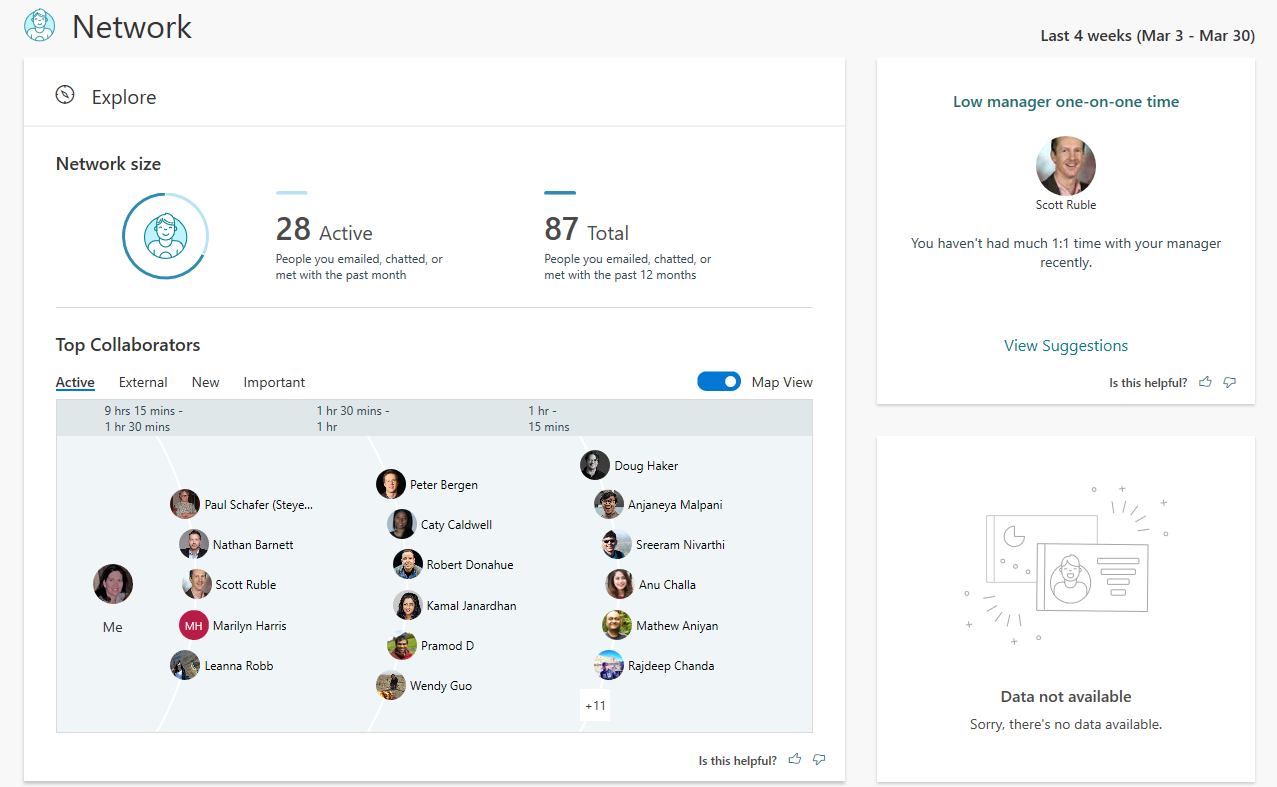
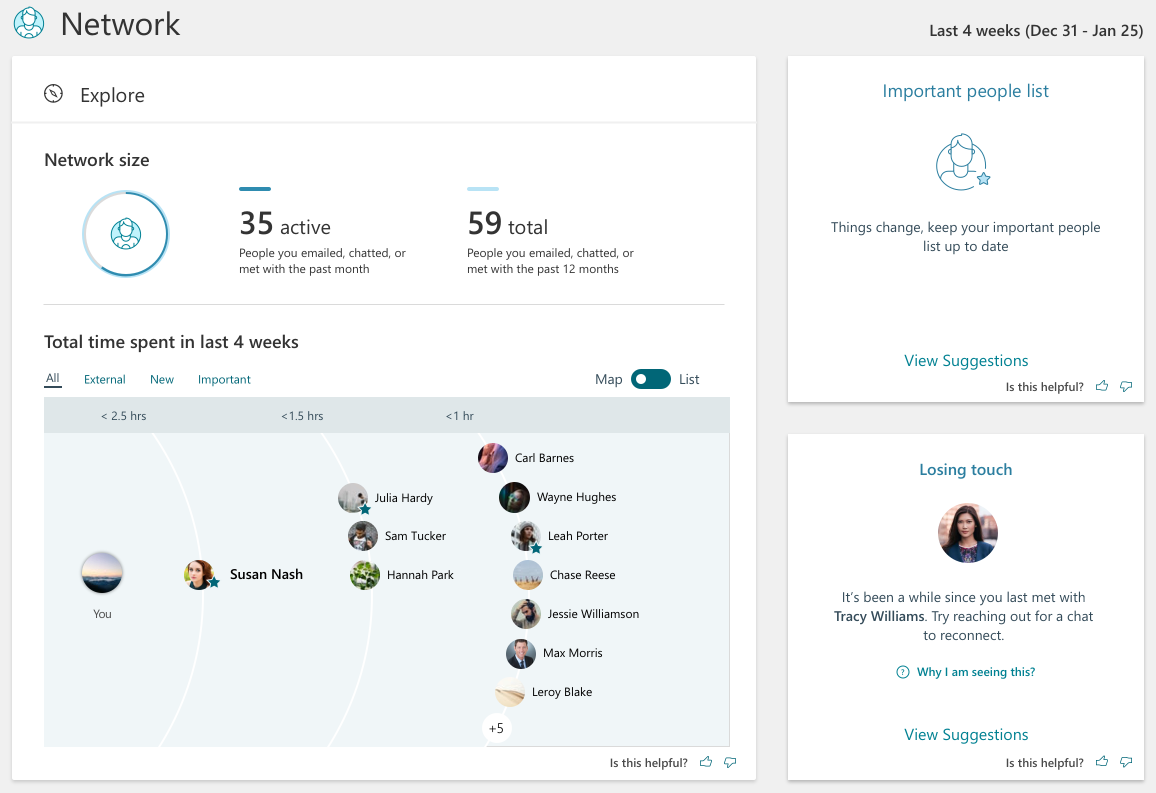
Edits for MyA v2
for docs

diff --git a/WorkplaceAnalytics/MyAnalytics/Overview/mya-service-description.md b/WorkplaceAnalytics/MyAnalytics/Overview/mya-service-description.md
@@ -4,9 +4,9 @@
 
 title: MyAnalytics service description
 description: MyAnalytics -- features, distributions, privacy, and prerequisites
-author: paul9955
-ms.author: v-pascha
-ms.date: 03/08/2019
+author: madehmer
+ms.author: v-midehm
+ms.date: 04/02/2019
 ms.topic: get-started-article
 localization_priority: normal 
 ms.prod: mya
@@ -19,20 +19,20 @@ MyAnalytics summarizes how you spend your time at work and then suggests ways to
 
 Some of the elements of MyAnalytics are provided automatically to users of various Office 365 plans. For more information, see [MyAnalytics distributions](#myanalytics-distributions).  
 
-MyAnalytics processes information in a manner that protects employee privacy. For more information, see [Data privacy](#data-privacy). 
+MyAnalytics processes information in a manner that protects employee privacy. For more information, see [Data privacy](#data-privacy).
 
 ## Elements
 
 MyAnalytics consists of the following elements:
 
- * [MyAnalytics personal dashboard](https://docs.microsoft.com/en-us/workplace-analytics/myanalytics/use/dashboard): Helps you reflect on your work habits such as time that you have available to focus, your meeting and email practices, and your network. 
+ * [MyAnalytics personal dashboard](https://docs.microsoft.com/en-us/workplace-analytics/myanalytics/use/dashboard): Helps you reflect on your work habits such as time that you have available to focus, your meeting and email practices, and your network.
  * [Outlook add-in](https://docs.microsoft.com/en-us/workplace-analytics/myanalytics/use/add-in): Provides you with actionable insights in Outlook that help you stay on top of your tasks and get more done.
- * [Email digest](https://docs.microsoft.com/en-us/workplace-analytics/myanalytics/use/email-digest): Gives you key highlights about your previous week. 
- * [MyAnalytics nudges](https://docs.microsoft.com/en-us/workplace-analytics/myanalytics/use/mya-notifications): These brief, data- and AI-driven notifications appear in Outlook while you are either reading or composing an email or a meeting invitation. 
+ * [Email digest](https://docs.microsoft.com/en-us/workplace-analytics/myanalytics/use/email-digest): Gives you key highlights about your previous week.
+ * [MyAnalytics nudges](https://docs.microsoft.com/en-us/workplace-analytics/myanalytics/use/mya-notifications): These brief, data- and AI-driven notifications appear in Outlook while you are either reading or composing an email or a meeting invitation.
 
 ## MyAnalytics distributions
 
-The elements of MyAnalytics are available in varying levels to users of different Microsoft Office 365 plans, as described in the following table: 
+The elements of MyAnalytics are available in varying levels to users of different Microsoft Office 365 plans, as follows: 
 
 | Plan	| Elements available |
 | --- | --- |
@@ -42,18 +42,19 @@ The elements of MyAnalytics are available in varying levels to users of differen
 For more information, see [Availability of features](https://docs.microsoft.com/en-us/workplace-analytics/myanalytics/overview/plans-environments).
 
 ## Data privacy
+
 By adhering to the following guidelines, MyAnalytics protect employee privacy and support compliance with local regulations:
- * MyAnalytics is not designed to enable employee evaluation, tracking, automated decision-making, profiling, or monitoring. 
- * MyAnalytics does not give employees access to new personally identifiable information on other coworkers. 
- * MyAnalytics data is processed and stored in the employee’s Exchange Online mailbox. 
- * MyAnalytics supports General Data Protection Regulation (GDPR) compliance. 
- * MyAnalytics can be configured so that individuals must purposefully opt in. 
- * MyAnalytics and Delve are separate applications with no interdependencies. 
- * MyAnalytics reminds people that their data is private and secure. 
+
+ * MyAnalytics is not designed to enable employee evaluation, tracking, automated decision-making, profiling, or monitoring.
+ * MyAnalytics does not give employees access to new personally identifiable information on other coworkers.
+ * MyAnalytics data is processed and stored in the employee’s Exchange Online mailbox.
+ * MyAnalytics supports General Data Protection Regulation (GDPR) compliance.
+ * MyAnalytics can be configured so that individuals must purposefully opt in.
+ * MyAnalytics and Delve are separate applications with no interdependencies.
+ * MyAnalytics reminds people that their data is private and secure.
 
 For more information, see [MyAnalytics privacy guide](https://docs.microsoft.com/en-us/workplace-analytics/myanalytics/overview/privacy-guide).
 
 ## Prerequisites
 
  * [Microsoft Exchange Online](https://docs.microsoft.com/en-us/office365/servicedescriptions/exchange-online-service-description/exchange-online-service-description)
-

diff --git a/WorkplaceAnalytics/MyAnalytics/Use/MyA-Adoption/Indiv-adopt-diagnose.md b/WorkplaceAnalytics/MyAnalytics/Use/MyA-Adoption/Indiv-adopt-diagnose.md
@@ -2,19 +2,19 @@
 # Metadata Sample
 # required metadata
 
-title: MyAnalytics Individual Adoption --Diagnose problems
-description: MyAnalytics Individual Adoption by Kate Nowak --Diagnose problems section
+title: MyAnalytics Individual Adoption --Diagnose 
+description: MyAnalytics Individual Adoption by Kate Nowak --Diagnose issues
 author: paul9955
-ms.author: v-pascha
-ms.date: 02/21/2019
+ms.author: v-midehm
+ms.date: 04/02/2019
 ms.topic: conceptual
 localization_priority: normal 
 ms.prod: mya
 ---
 
-# Diagnose your problem
+# Diagnose an issue to improve
 
-If you are feeling the pain of collaboration overload, but haven’t identified the problem and its cause, start with a diagnosis exercise:
+If you are feeling the pain of collaboration overload, but haven’t identified the issue and its cause, start with a diagnosis exercise:
 
 Use a list of questions (qualitative diagnosis) and data from your MyAnalytics dashboard (quantitative diagnosis) to better understand your priorities for managing your collaboration load across five categories: Meetings, Email, Focus Hours, After Hours, and Network.
 
@@ -40,7 +40,7 @@ First, ask yourself the following questions:
  * Do I rely too heavily on email versus other communication methods?
  * Am I constantly checking email throughout the day?
 
-### Focus hours
+### Focus 
 
  * Am I able to schedule sufficient time to focus on getting my most important work done?
  * Do I regularly produce creative and original ideas?
@@ -48,7 +48,7 @@ First, ask yourself the following questions:
  * Do I regularly achieve my important deadlines?
  * Do I have adequate control over my schedule?
 
-### After hours
+### Wellbeing
 
  * Does my job interfere with my personal life?
  * Am I constantly reading and sending emails when I am home?
@@ -77,7 +77,7 @@ Look at your MyAnalytics dashboard to use data to validate your collaboration pa
 * Is my total number of meetings hours per week as a percentage of my work week very high?
 * How much time as a percentage of my week should I spend in meetings for my job?
 * Are most of the meetings that I attend scheduled by me or by others?
-* Which of the low-quality meeting habits appears to be my biggest problem?
+* Which of the low-quality meeting habits appears to be my biggest issue?
 
 ### Email
 
@@ -88,17 +88,17 @@ Look at your MyAnalytics dashboard to use data to validate your collaboration pa
 * Am I emailing throughout the day or at specific times during the day?
 * Am I reading and sending a lot of emails outside business hours?
 
-### Focus Hours
+### Focus
 
-<img src="../../../images/mya/use/Adopt-indiv-3.PNG" alt="Dashboard Focus hours area">
+<img src="../../../images/mya/use/Adopt-indiv-3.PNG" alt="Focus page">
 
 * Is my total number of focus hours per week as a percentage of my work week sufficient?
 * Which days during the week do I typically get the most time to focus?
 * Is the amount of time I spend meeting with others versus focusing on my individual work appropriate for my job?
 
-### After Hours
+### Wellbeing
 
-<img src="../../../images/mya/use/Adopt-indiv-4.PNG" alt="Dashboard After-hours area">
+<img src="../../../images/mya/use/Adopt-indiv-4.PNG" alt="Wellbeing page">
 
 * Is my total after-hours number acceptable?
 * Am I collaborating after hours on certain days or every day?
@@ -106,16 +106,16 @@ Look at your MyAnalytics dashboard to use data to validate your collaboration pa
 
 ### Network
  
-<img src="../../../images/mya/use/network2.PNG" alt="Dashboard Network area">
+<img src="../../../images/mya/use/network.PNG" alt="Network page">
 
 * Do my time investments in people line up with my top priorities?
 * Are there opportunities for me to meet more with or less with certain individuals?
 * Is anyone missing from my map with whom I should be spending time?
 * Am I acting as a bottleneck for certain people because I am too slow to respond to their emails?
 
-## Behavior-change objective
+## Behavior-change objectives
 
-After you analyze your collaboration problem both qualitatively and quantitatively, you should have more clarity on what you would like to change about the way you collaborate. Behavior-change objectives include: 
+After you analyze your collaboration issue both qualitatively and quantitatively, you should have more clarity on what you would like to change about the way you collaborate. Behavior-change objectives include: 
 
 * Reduce the number of hours I spend in ineffective meetings.
 * Schedule more focus hours to boost my productivity, creativity and decision-making.

diff --git a/WorkplaceAnalytics/MyAnalytics/Use/dashboard-2.md b/WorkplaceAnalytics/MyAnalytics/Use/dashboard-2.md
@@ -2,11 +2,11 @@
 # Metadata Sample
 # required metadata
 
-title: MyAnalytics work patterns
+title: Work patterns
 description: Learn about your work patterns in MyAnalytics
 author: madehmer
 ms.author: v-midehm
-ms.date: 04/01/2019
+ms.date: 04/02/2019
 ms.topic: article
 localization_priority: normal 
 ms.prod: mya
@@ -21,27 +21,27 @@ Thank you for trying the brand new MyAnalytics experience. Welcome to new person
 
 MyAnalytics gives you valuable new insights into how to increase focus, achieve work life balance, and improve your work relationships and team collaboration.
 
-**To open your personal MyAnalytics dashboard**: Go to [myanalytics.microsoft.com](https://myanalytics.microsoft.com)
+**To open your MyAnalytics dashboard**: Go to [myanalytics.microsoft.com](https://myanalytics.microsoft.com)
 
 ## MyAnalytics home page
 
-The Home page includes helpful statistics about your work activities over the past month, including your focus and collaboration time, how many days you were able to disconnect from work, and how effectively you are networking with other people at work.
+The Home page has helpful statistics about your work patterns over the past month, including your focus and collaboration time, how many days you were able to disconnect from work, and how effectively you are networking with other people at work.
 
 ![Your work patterns](../../Images/mya/use/home-pg.png)
 
 ## Focus and Wellbeing
 
-This section of the Explore page gives you ways to plan time for specific tasks, such as booking focus time in your calendar and adding tasks to the body of the appointment.
+These sections give you ways to plan time for specific tasks, such as booking focus time in your calendar and adding tasks to the body of the appointment.
 
 It also shows how well you are disconnecting from work during your time off and suggests ways to reduce stress and burnout.
 
 For more details, see [Focus](../use/focus.md) and [Wellbeing](../use/wellbeing.md).
 
-## Your Network
+## Network
 
-This section shows the people you actively networked with and your total network size based on work activities, such as email, chats, calls, and meetings.
+This section shows the people you actively collaborated with based on your work activities over the past month, such as email, chats, calls, and meetings.
 
-It also shows your top collaborators in either a map or list view, enables you to view details about the important people in your network, and suggests people to add to your important list of people.
+It also shows the total number of people in your network, which is based on your work activities over the past year.
 
 For more details, see [Network](../use/network.md).
 
@@ -49,7 +49,7 @@ For more details, see [Network](../use/network.md).
 
 These are based on your recent workplace activity. Select **View Suggestions** to get ideas on how you might change or improve your current work patterns.
 
-![Productivity insights](../../Images/mya/use/pro-insights.png)
+![Productivity insights](../../Images/mya/use/insights.png)
 
 ## Config Settings
 
@@ -73,11 +73,11 @@ When you opt out, the following will occur:
 
 * You will no longer be able to access MyAnalytics, including your personal dashboard and [Outlook add-in](../use/add-in.md).
 * You will stop receiving [nudges](../use/mya-notifications.md) and the [weekly email digest](../use/email-digest.md).
-* Your email activity will not be included anonymously in other users’ [email read statistics](../use/add-in.md#email-read-statistics).
+* Your email activity will not be included in other users’ [email read statistics](../use/add-in.md#email-read-statistics).
 
-**To opt out of MyAnalytics**
+**To opt out of MyAnalytics**:
 
-1. Open your [MyAnalytics dashboard](https://myanalytics.microsoft.com).
+1. Open your [dashboard](https://myanalytics.microsoft.com).
 2. Select the **Settings** (gear) icon in the top right to open the Settings pane.
 
     ![MyAnalytics settings](../../Images/mya/use/mya-gear-settings.png)

diff --git a/WorkplaceAnalytics/MyAnalytics/Use/network.md b/WorkplaceAnalytics/MyAnalytics/Use/network.md
@@ -15,18 +15,38 @@ ms.prod: mya
 
 # MyAnalytics network
 
-The Network page shows the people you actively networked with and your total network size based on work activities, such as email, chats, calls, and meetings.
+The Network page shows how many people you actively connect with in the last month and gives you ideas on improving your connections with your most important contacts, such as your manager or your direct reports. 
 
-It also shows your top collaborators in either a map or list view, enables you to view details about the important people in your network, and suggests people to add to your important list of people.
+It also shows your top collaborators in either a map or list view, enables you to view details about the important people in your network, and suggests people to add to your important list of people and grow your network.
 
-![Your Network](../../Images/mya/use/mya-network.png)
+![Your Network](../../Images/mya/use/network-pg.png)
 
 ## About the network metrics
 
-* **Top collaborators** are based on your meetings, email, calls, and chats. If you hold a meeting with or exchange emails, chats, or calls with coworkers, they are considered collaborators. An **active collaborator** is a coworker you collaborated with over the past four weeks, whereas **total collaborators** considers the entire past year.
+* **Top collaborators** are based on your meetings, email, calls, and chats. If you hold a meeting with or exchange emails, chats, or calls with coworkers, they are considered collaborators.
+* An **active collaborator** is a coworker you collaborated with over the past four weeks, whereas **total collaborators** considers the entire past year.
+* An **important collaborator** is a coworker who you selected as important in MyAnalytics. 
 
-* **An important collaborator** is a coworker who you selected as important in MyAnalytics. You can select people as important in the **Important collaborators** section of **Explore** > **Your Network**.
+## Important people 
+
+In the **Suggested important people** section of the **Network** page in MyAnalytics, you can search for people and select the star next to their name to mark them as important.
 
 ## Productivity insights
 
-These are based on your recent workplace activity. Select **View Suggestions** to get ideas on how you might change or improve your current work patterns.
+These are based on your recent activity at work. Select **View Suggestions** to get ideas on how you might change or improve your current network pattern.
+
+## Network tips
+
+#### Spend more time with important collaborators
+
+Spending more time with the people in your network who align with your top priority tasks at work will improve team collaboration and increase project success. To do this, schedule one more weekly, reoccurring meeting with these people. For example, move a person from "right to left" in your "My network" map.
+
+
+#### Set up a weekly check-in to stay in sync
+
+One-on-ones are a great way to keep your manager in the loop and resolve any issues quickly. Just 30 minutes of one-on-one time each week can help you stay in sync.
+
+
+## Related topics
+
+[Work patterns in MyAnalytics](../use/dashboard-2.md)

diff --git a/WorkplaceAnalytics/MyAnalytics/Use/email-digest-2.md b/WorkplaceAnalytics/MyAnalytics/Use/email-digest-2.md
@@ -3,10 +3,10 @@
 # required metadata
 
 title: MyAnalytics email digest
-description: MyAnalytics users receive a weekly email digest that describes key highlights
-author: paul9955
+description: MyAnalytics users receive a weekly email digest with key insights and suggestions
+author: madehmer
 ms.author: v-midehm
-ms.date: 02/21/2019
+ms.date: 04/02/2019
 ms.topic: article
 localization_priority: normal 
 ms.prod: mya
@@ -16,16 +16,20 @@ ms.prod: mya
 
 _**Applies to: Office 365 Enterprise E5, Office 365 A5, Office 365 Nonprofit E5, and MyAnalytics add-on**_
 
-As a MyAnalytics user, you'll receive a weekly email digest with suggestions to help you meet your goals and improve your work habits. Each week will focus on a different goal or work habit:
+As a MyAnalytics user, you'll receive a weekly email digest with suggestions to help you better understand your work patterns and ways to improve them. 
+
+Each week will focus one of the following work patterns:
 
 * **Focus** - Find ways to increase your focus hours, so you can accomplish deep work and unleash your creativity.
 * **Wellbeing** - See if you’re getting good balance between work and personal time, then find ways to disconnect and unwind after hours.
 * **Relationships** - See who’s in your network and make sure you’re keeping up with important contacts.
 * **Better meetings** - Get tips on how to plan your calendar, spend less time in low-quality meetings, and write more effective emails.
 
-The following is an example of an email digest about past work history and an insight to help increase focus time.
+The following is an example of an email digest about past work history.
 
 ![Email focus digest](../../Images/mya/use/email-focus.png)
+
+Here's an insight to help increase focus time
 
 ![Email focus insight](../../Images/mya/use/email-focus-insight.png)
 
@@ -33,7 +37,7 @@ Here's an example of an email digest tip to reduce after-hours work.
 
 ![Email quiet hours digest](../../Images/mya/use/email-quiet.png)
 
-And an example of an email digest insight to help improve work relationships.
+Here's an example of an email digest insight to help improve work relationships.
 
 ![Email network digest](../../Images/mya/use/email-network.png)
 
@@ -46,4 +50,4 @@ If you do not want to receive digest emails from MyAnalytics, you can opt out of
 --->
 
 >[!Note]
-> Skype for Business data is usually prompt. However, in rare instances, users can experience delays of from two to four days. For more information see [MyAnalytics FAQ](../Overview/MyA-faq.md)
+> Skype for Business data is usually prompt. However, in rare instances, users can experience delays of from two to four days. For more information, see [MyAnalytics FAQ](../Overview/MyA-faq.md)

diff --git a/WorkplaceAnalytics/MyAnalytics/Use/MyA-elements.md b/WorkplaceAnalytics/MyAnalytics/Use/MyA-elements.md
@@ -18,9 +18,9 @@ ms.prod: mya
 > Productivity insights that are powered by MyAnalytics are becoming broadly available for Office 365 users.
 [Learn more](../overview/plans-environments.md) about the experiences users can get with each plan.
 
-This describes how MyAnalytics presents you with insights and how you can use these insights to make good decisions.
+MyAnalytics presents you with insights and how you can use these insights to make good decisions through the following elements.
 
 * [MyAnalytics personal dashboard](dashboard-2.md): You can see statistics on how you've spent your time over the past month, productivity insights about your work habits, helpful suggestions for improvement, and explore your network, top collaborators, and collaboration activities.
 * [Outlook add-in](add-in.md): The Outlook add-in presents you with cards that  report on aspects of your recent work experience and let you respond in various ways.
-* [Email digests](email-digest.md): You receive a weekly digest in email that gives you highlights about your previous week.
+* [Email digests](email-digest-2.md): You receive a weekly digest in email that gives you highlights about your previous week.
 * [MyAnalytics nudges](mya-notifications.md): MyAnalytics nudges are notifications that appear in Microsoft Outlook that can help boost your productivity by displaying useful suggestions and tips around managing email and running meetings.

diff --git a/WorkplaceAnalytics/MyAnalytics/Overview/Tips.md b/WorkplaceAnalytics/MyAnalytics/Overview/Tips.md
@@ -19,7 +19,7 @@ ms.prod: mya
 
 Use these tips to learn how to spend your time better and focus on what's important in your work. Not all tips are for everyone. What you can and should do always depends on your role and the organization you work in. 
 
-## Use MyAnalytics in Outlook 
+## Use MyAnalytics in Outlook
 
 Would you like to know how many people read a specific email message that you sent? Check out the MyAnalytics Outlook add-in to see how many people have read, replied to, or forwarded your email.
 
@@ -73,9 +73,7 @@ Consider introducing the following company discipline around Cc'd e-mails: When 
 
 Be a thoughtful coworker! 
 
-Be a thoughtful coworker!
-
-* For "inform"-type emails, condense the emails and status updates into daily or weekly digests. This reduces the overall noise and randomization caused by email overload.
+* For "inform" type emails, condense the emails and status updates into daily or weekly digests. This reduces the overall noise and randomization caused by email overload.
 * Save drafts or delay delivery for email until the recipients’ normal business hours. Limit late night and early morning email to urgent email, to cut through the noise.
 * Turn off notifications on your phone and desktop when you are trying to focus.
 

diff --git a/WorkplaceAnalytics/MyAnalytics/Use/collaboration.md b/WorkplaceAnalytics/MyAnalytics/Use/collaboration.md
@@ -6,7 +6,7 @@ title: MyAnalytics collaboration
 description: Learn how to use MyAnalytics to improve your collaboration at work
 author: madehmer
 ms.author: v-midehm
-ms.date: 03/28/2019
+ms.date: 04/02/2019
 ms.topic: article
 localization_priority: normal 
 ms.prod: mya
@@ -15,8 +15,12 @@ ms.prod: mya
 
 # MyAnalytics collaboration
 
+This work pattern is coming soon to MyAnalytics.
+
 ## Productivity insights
 
-These are based on your recent workplace activity. Select **View Suggestions** to get ideas on how you might change or improve your current work habits.
+These are based on your recent collaboration activity at work. Select **View Suggestions** to get ideas on how you might change or improve your current collaboration work pattern.
 
-![Productivity insights](../../Images/mya/use/pro-insights.png)
+## Related topics
+
+[Work patterns in MyAnalytics](../use/dashboard-2.md)
